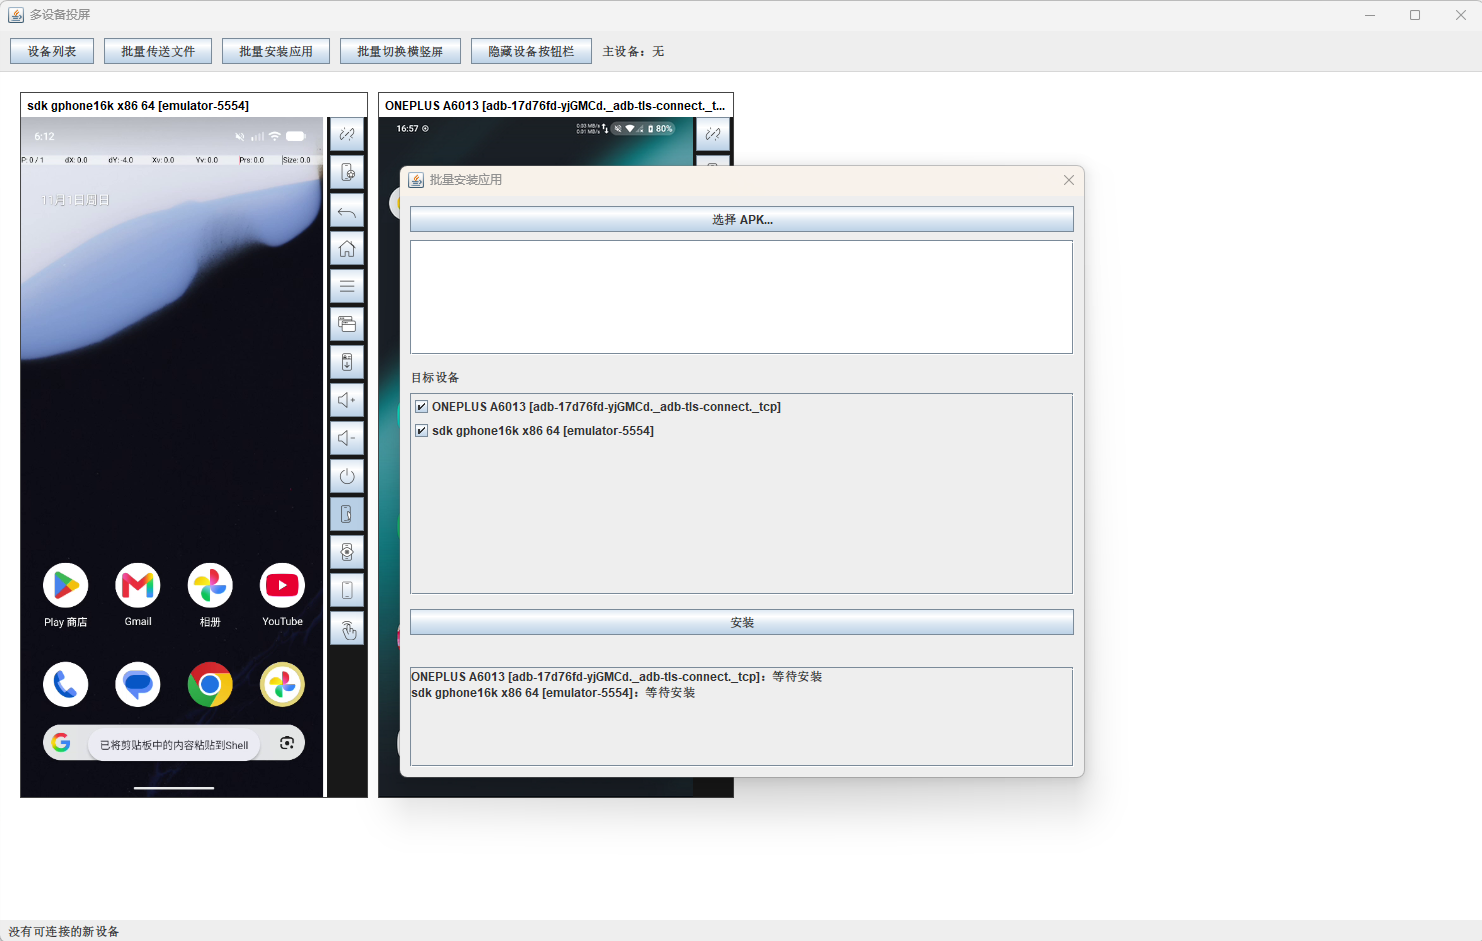
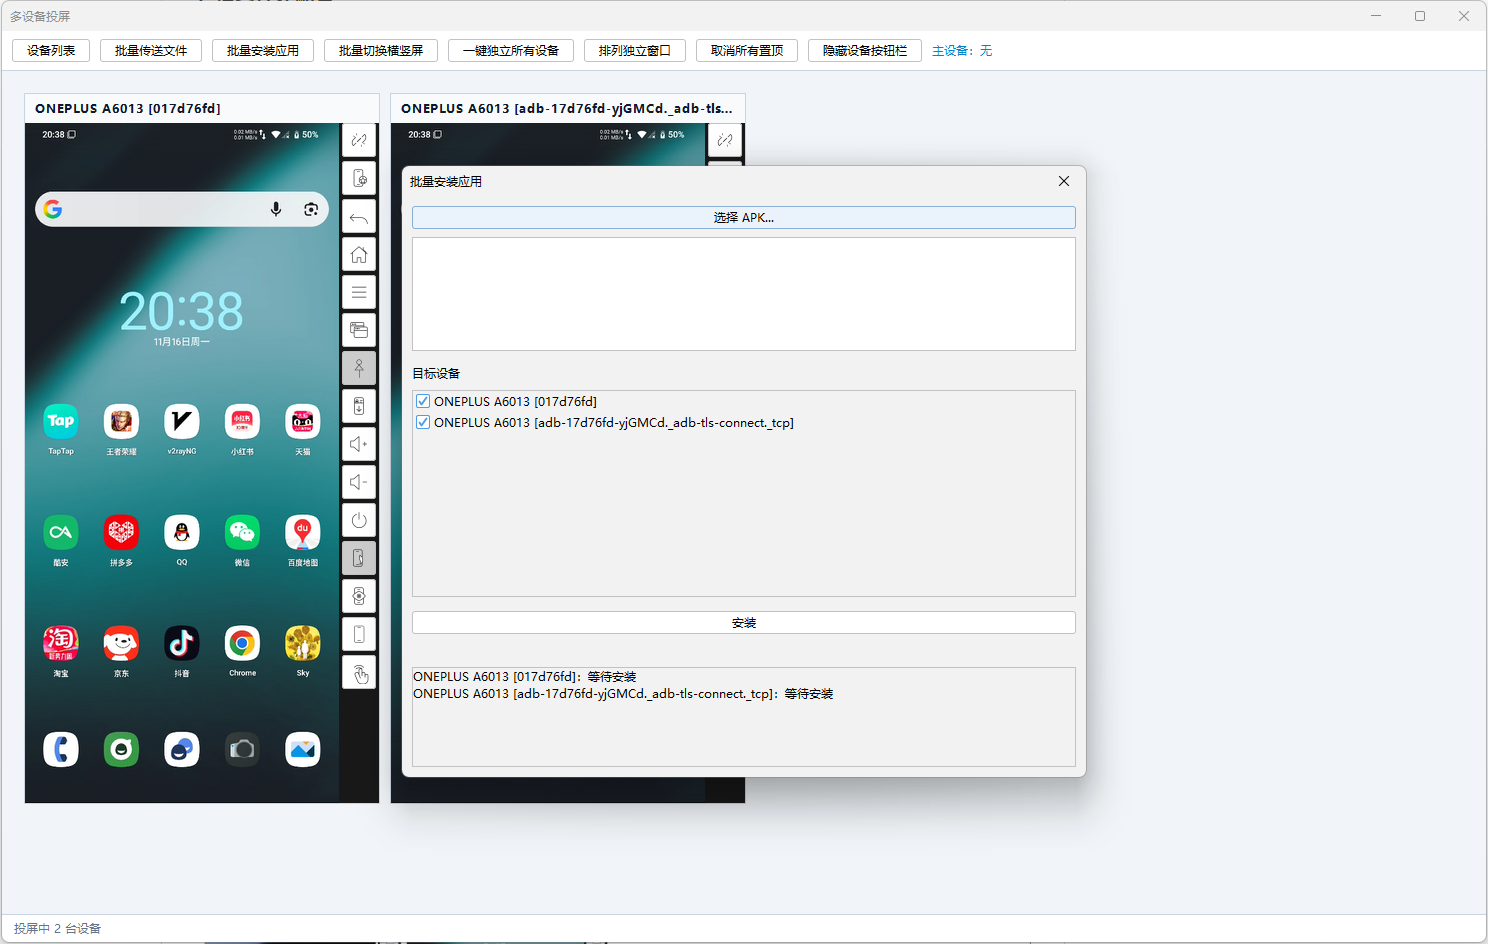
perf:netty依赖版本升级、UI调整

diff --git a/scrcpy-swing-poc/src/main/java/com/jian/scrcpy/swing/SwingScrcpyApp.java b/scrcpy-swing-poc/src/main/java/com/jian/scrcpy/swing/SwingScrcpyApp.java
@@ -44,7 +44,30 @@ import java.util.stream.Collectors;
 public final class SwingScrcpyApp {
     static {
         LoggingBootstrap.install();
+        try {
+            com.formdev.flatlaf.FlatLightLaf.setup();
+            UIManager.put("Button.arc", 6);
+            UIManager.put("Component.arc", 6);
+            UIManager.put("ProgressBar.arc", 6);
+            UIManager.put("TextComponent.arc", 6);
+            UIManager.put("ScrollBar.showButtons", false);
+            UIManager.put("ScrollBar.width", 10);
+            UIManager.put("TabbedPane.showTabSeparators", true);
+        } catch (Throwable t) {
+            System.err.println("FlatLaf setup failed: " + t.getMessage());
+        }
     }
+
+    // Modern Developer Tool / IDE Light Theme Design Tokens
+    private static final Color COLOR_APP_BG = new Color(0xF1, 0xF5, 0xF9);          // Soft Slate #F1F5F9
+    private static final Color COLOR_TOOLBAR_BG = new Color(0xFF, 0xFF, 0xFF);      // Crisp White #FFFFFF
+    private static final Color COLOR_CARD_BG = new Color(0xFF, 0xFF, 0xFF);         // Tile / Card Surface #FFFFFF
+    private static final Color COLOR_CARD_HEADER = new Color(0xF8, 0xFA, 0xFC);     // Card Header #F8FAFC
+    private static final Color COLOR_BORDER = new Color(0xCB, 0xD5, 0xE1);          // Crisp border #CBD5E1
+    private static final Color COLOR_TEXT_PRIMARY = new Color(0x0F, 0x17, 0x2A);    // Deep high-contrast Slate #0F172A
+    private static final Color COLOR_TEXT_MUTED = new Color(0x64, 0x74, 0x8B);      // Secondary muted slate #64748B
+    private static final Color COLOR_ACCENT_GREEN = new Color(0x16, 0xA3, 0x4A);    // Connected green #16A34A
+    private static final Color COLOR_ACCENT_BLUE = new Color(0x02, 0x84, 0xC7);     // Primary action blue #0284C7
 
     private static final int TILE_WIDTH = 360;
     private static final int TILE_HEIGHT = 680;
@@ -119,7 +142,8 @@ public final class SwingScrcpyApp {
         frame.setSize(1500, 950);
         frame.setLocationByPlatform(true);
 
-        JPanel toolbar = new JPanel(new FlowLayout(FlowLayout.LEFT, 10, 7));
+        JPanel toolbar = new JPanel(new FlowLayout(FlowLayout.LEFT, 10, 8));
+        toolbar.setBackground(COLOR_TOOLBAR_BG);
         JButton devices = new JButton("设备列表");
         JButton files = new JButton("批量传送文件");
         JButton install = new JButton("批量安装应用");
@@ -149,9 +173,11 @@ public final class SwingScrcpyApp {
         toolbar.add(tileWindowsButton);
         toolbar.add(toggleAlwaysOnTopButton);
         toolbar.add(toggleNavigationBarsButton);
+        primaryStatus.setForeground(COLOR_ACCENT_BLUE);
+        status.setForeground(COLOR_TEXT_MUTED);
         toolbar.add(primaryStatus);
         toolbar.add(status);
-        toolbar.setBorder(BorderFactory.createMatteBorder(0, 0, 1, 0, new Color(215, 215, 215)));
+        toolbar.setBorder(BorderFactory.createMatteBorder(0, 0, 1, 0, COLOR_BORDER));
 
         // 全局快捷键注册（Ctrl+Shift+D 独立全部，Ctrl+Shift+R 还原全部，Ctrl+Shift+A 自动平铺，Ctrl+Shift+T 置顶全部）
         JRootPane root = frame.getRootPane();
@@ -169,19 +195,19 @@ public final class SwingScrcpyApp {
                 JComponent.WHEN_IN_FOCUSED_WINDOW);
 
         primaryHost.setOpaque(true);
-        primaryHost.setBackground(Color.WHITE);
+        primaryHost.setBackground(COLOR_APP_BG);
         primaryHost.setDoubleBuffered(false);
         workspace.setOpaque(true);
         workspace.setDoubleBuffered(false);
         primaryHost.setPreferredSize(new Dimension(0, 0));
         primaryHost.setVisible(false);
-        secondaryGrid.setBackground(Color.WHITE);
-        secondaryGrid.setBorder(new EmptyBorder(10, 10, 10, 10));
+        secondaryGrid.setBackground(COLOR_APP_BG);
+        secondaryGrid.setBorder(new EmptyBorder(12, 12, 12, 12));
         secondaryScroll.setBorder(BorderFactory.createEmptyBorder());
         secondaryScroll.setHorizontalScrollBarPolicy(ScrollPaneConstants.HORIZONTAL_SCROLLBAR_NEVER);
-        secondaryScroll.getViewport().setBackground(Color.WHITE);
+        secondaryScroll.getViewport().setBackground(COLOR_APP_BG);
         secondaryScroll.getVerticalScrollBar().setUnitIncrement(24);
-        workspace.setBackground(Color.WHITE);
+        workspace.setBackground(COLOR_APP_BG);
         workspace.add(secondaryScroll, BorderLayout.CENTER);
         workspace.addComponentListener(new ComponentAdapter() {
             @Override public void componentResized(ComponentEvent e) {
@@ -212,7 +238,12 @@ public final class SwingScrcpyApp {
 
     private JComponent statusBar() {
         JPanel panel = new JPanel(new BorderLayout());
-        panel.setBorder(new EmptyBorder(3, 8, 3, 8));
+        panel.setBackground(COLOR_TOOLBAR_BG);
+        panel.setBorder(BorderFactory.createCompoundBorder(
+                BorderFactory.createMatteBorder(1, 0, 0, 0, COLOR_BORDER),
+                new EmptyBorder(5, 12, 5, 12)
+        ));
+        status.setForeground(COLOR_TEXT_MUTED);
         panel.add(status, BorderLayout.WEST);
         return panel;
     }
@@ -888,13 +919,15 @@ public final class SwingScrcpyApp {
         if (sessions.get(device.serial()) != handle || handle.tile != null) return;
         JPanel tile = new JPanel(new BorderLayout(0, 0));
         tile.setOpaque(true);
-        tile.setBackground(Color.WHITE);
+        tile.setBackground(COLOR_CARD_BG);
         tile.setDoubleBuffered(false);
-        tile.setBorder(BorderFactory.createLineBorder(new Color(68, 68, 68)));
+        tile.setBorder(BorderFactory.createLineBorder(COLOR_BORDER, 1));
         JLabel title = new JLabel(device.displayName());
-        title.setOpaque(true); title.setBackground(Color.WHITE); title.setForeground(Color.BLACK);
-        title.setFont(title.getFont().deriveFont(Font.BOLD));
-        title.setBorder(new EmptyBorder(4, 6, 4, 6));
+        title.setOpaque(true);
+        title.setBackground(COLOR_CARD_HEADER);
+        title.setForeground(COLOR_TEXT_PRIMARY);
+        title.setFont(title.getFont().deriveFont(Font.BOLD, 12.5f));
+        title.setBorder(new EmptyBorder(6, 10, 6, 10));
         handle.tileTitle = title;
         JPanel videoAndNavigation = new JPanel(new BorderLayout(0, 0));
         videoAndNavigation.setOpaque(true);
@@ -1215,7 +1248,7 @@ public final class SwingScrcpyApp {
             primaryHost.removeAll();
             primaryHost.add(handle.tile, BorderLayout.CENTER);
             primaryHost.setOpaque(true);
-            primaryHost.setBackground(Color.WHITE);
+            primaryHost.setBackground(COLOR_APP_BG);
             primaryHost.setVisible(true);
             if (primaryHost.getParent() != workspace) workspace.add(primaryHost, BorderLayout.WEST);
             workspace.setComponentZOrder(primaryHost, 0);
@@ -1228,12 +1261,16 @@ public final class SwingScrcpyApp {
         floating.getContentPane().removeAll();
         floating.dispose();
         // 还原嵌入模式下的背景与边框
-        handle.tile.setBackground(Color.WHITE);
-        handle.tile.setBorder(BorderFactory.createLineBorder(new Color(68, 68, 68)));
+        handle.tile.setBackground(COLOR_CARD_BG);
+        handle.tile.setBorder(BorderFactory.createLineBorder(COLOR_BORDER, 1));
         if (handle.videoAndNavigation != null) handle.videoAndNavigation.setBackground(new Color(24, 24, 24));
         if (handle.viewport != null) handle.viewport.setBackground(new Color(24, 24, 24));
         if (handle.view != null) handle.view.setBackground(new Color(24, 24, 24));
-        if (handle.tileTitle != null) handle.tileTitle.setVisible(true);
+        if (handle.tileTitle != null) {
+            handle.tileTitle.setBackground(COLOR_CARD_HEADER);
+            handle.tileTitle.setForeground(COLOR_TEXT_PRIMARY);
+            handle.tileTitle.setVisible(true);
+        }
         handle.embeddedParent = null;
         handle.embeddedIndex = -1;
         if (handle.popOutButton != null) handle.popOutButton.setToolTipText("弹出独立窗口");

diff --git a/README.md b/README.md
@@ -98,6 +98,10 @@
 
 ![多设备群控嵌入模式](assets/多设备群控嵌入模式.png)
 
+群控所有投屏独立窗口模式
+
+![独立窗口主控模式.png](assets/独立窗口主控模式.png)
+
 群控主控设备投屏独立窗口模式
 
 ![多设备群控独立窗口](assets/多设备群控独立窗口.png)
